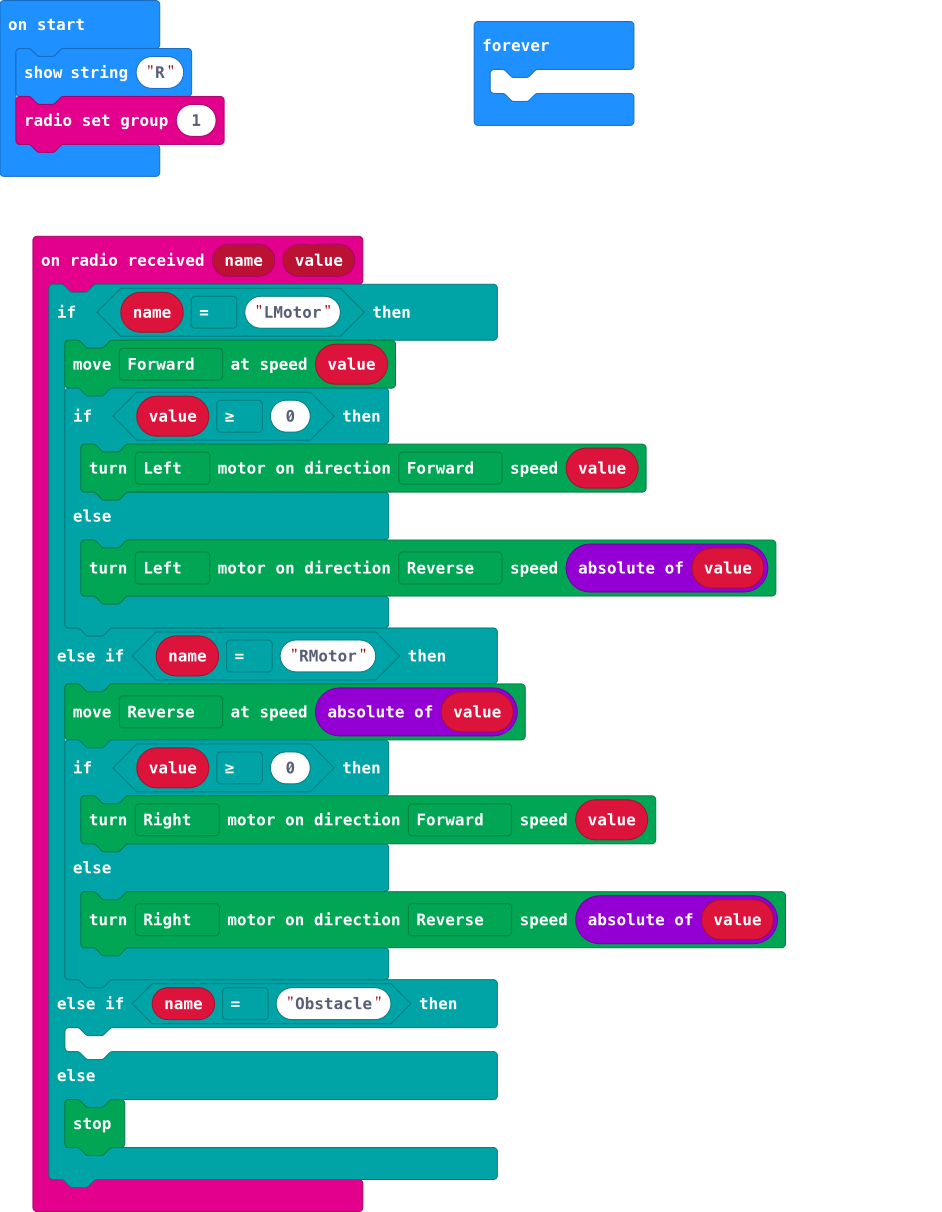
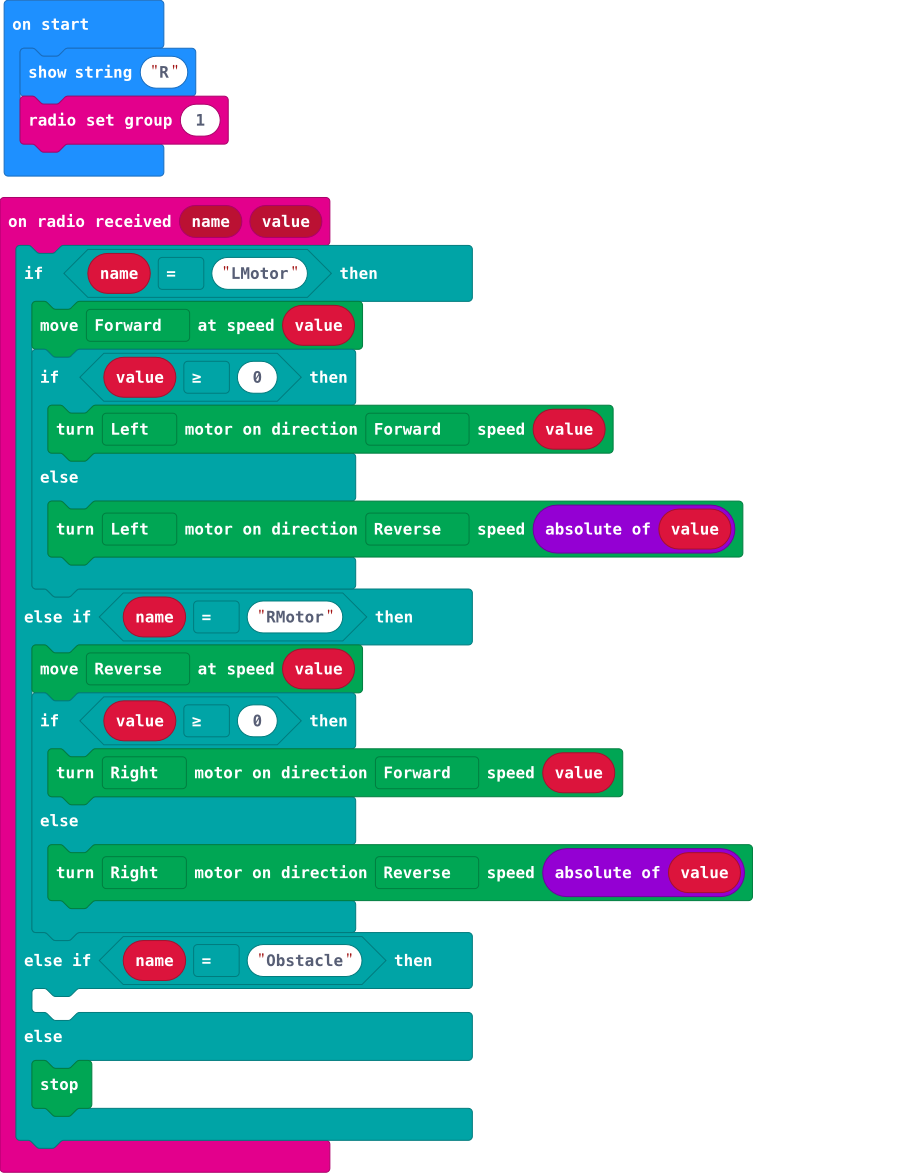
Update main.blocks, main.ts

diff --git a/main.ts b/main.ts
@@ -7,7 +7,7 @@ radio.onReceivedValue(function (name, value) {
             Kitronik_Move_Motor.motorOn(Kitronik_Move_Motor.Motors.MotorLeft, Kitronik_Move_Motor.MotorDirection.Reverse, Math.abs(value))
         }
     } else if (name == "RMotor") {
-        Kitronik_Move_Motor.move(Kitronik_Move_Motor.DriveDirections.Reverse, Math.abs(value))
+        Kitronik_Move_Motor.move(Kitronik_Move_Motor.DriveDirections.Reverse, value)
         if (value >= 0) {
             Kitronik_Move_Motor.motorOn(Kitronik_Move_Motor.Motors.MotorRight, Kitronik_Move_Motor.MotorDirection.Forward, value)
         } else {
@@ -21,6 +21,3 @@ radio.onReceivedValue(function (name, value) {
 })
 basic.showString("R")
 radio.setGroup(1)
-basic.forever(function () {
-	
-})
